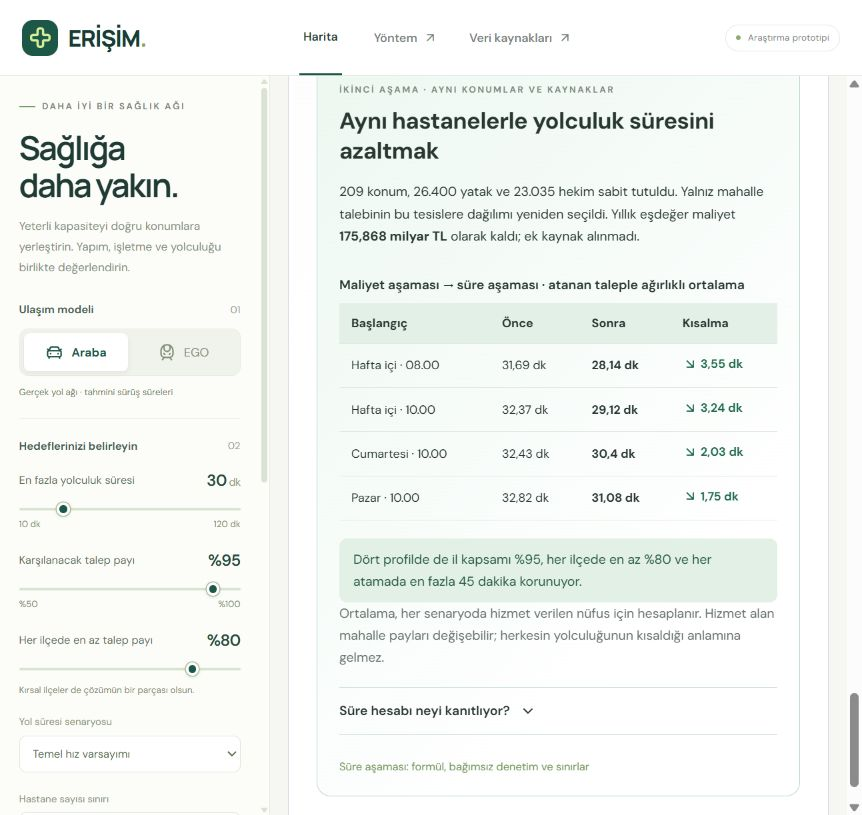
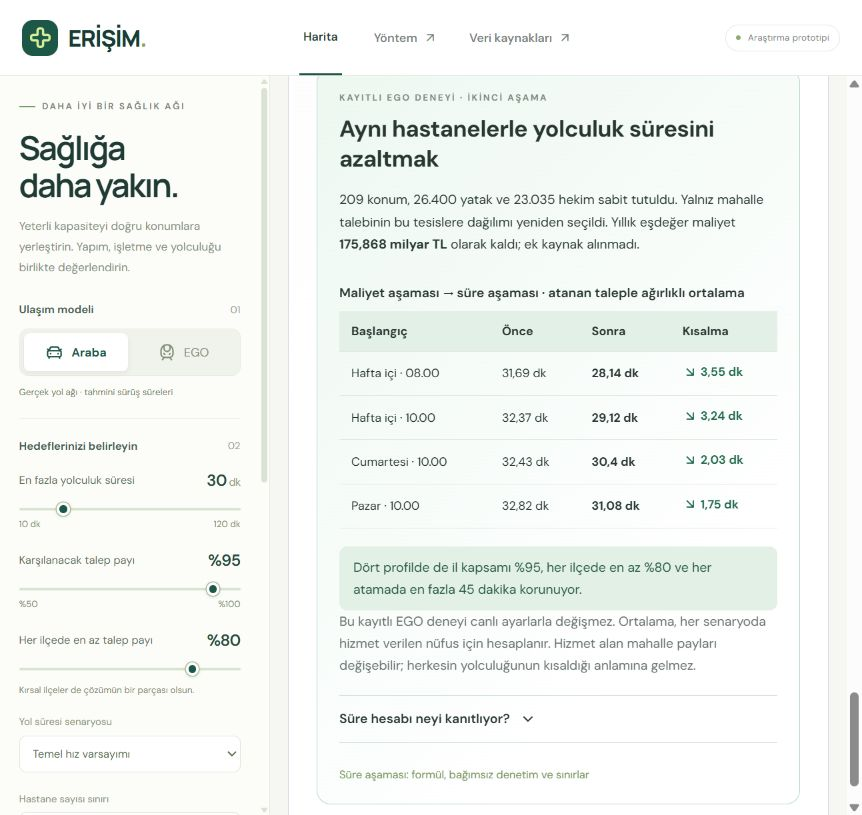
Label saved EGO experiments separately from live travel controls

diff --git a/src/JointTravel.tsx b/src/JointTravel.tsx
@@ -77,7 +77,7 @@ export function JointTravelContent({ report, source }: { report: JointTravelRepo
     : "Süre deneyinin doğrulaması tamamlanmamış. Yukarıdaki maliyet planı ayrı değerlendirilir."}</p></section>;
   const overlap = report.conditionalOverlap.province;
   return <section className="joint-travel" aria-labelledby="joint-travel-title">
-    <span className="eyebrow">İKİNCİ AŞAMA · AYNI KONUMLAR VE KAYNAKLAR</span>
+    <span className="eyebrow">KAYITLI EGO DENEYİ · İKİNCİ AŞAMA</span>
     <h4 id="joint-travel-title">Aynı hastanelerle yolculuk süresini azaltmak</h4>
     <p>{fmt(report.hospitalCount, 0)} konum, {fmt(report.beds, 0)} yatak ve {fmt(report.doctors, 0)} hekim sabit tutuldu.
       Yalnız mahalle talebinin bu tesislere dağılımı yeniden seçildi. Yıllık eşdeğer maliyet
@@ -91,7 +91,7 @@ export function JointTravelContent({ report, source }: { report: JointTravelRepo
           : <span>Başlangıç korundu</span>}</td></tr>)}</tbody>
     </table></div>
     <p className="joint-travel-targets">Dört profilde de il kapsamı %95, her ilçede en az %80 ve her atamada en fazla 45 dakika korunuyor.</p>
-    <p className="joint-note">Ortalama, her senaryoda hizmet verilen nüfus için hesaplanır. Hizmet alan mahalle payları değişebilir;
+    <p className="joint-note">Bu kayıtlı EGO deneyi canlı ayarlarla değişmez. Ortalama, her senaryoda hizmet verilen nüfus için hesaplanır. Hizmet alan mahalle payları değişebilir;
       herkesin yolculuğunun kısaldığı anlamına gelmez.</p>
     {!report.allProfilesAccepted && <p className="joint-note">{report.acceptedProfileCount}/4 profil için süre iyileştirmesi doğrulandı.
       Diğer profillerin eski atamaları korundu; iyileştirme bulunmaması olanaksızlık kanıtı değildir.</p>}

diff --git a/src/JointPlan.tsx b/src/JointPlan.tsx
@@ -91,7 +91,7 @@ export function JointPlanContent({ report, packageId, planningVersion, map, curr
   report.selected.forEach(site => sizes.set(site.beds, (sizes.get(site.beds) || 0) + 1));
   const mostCommon = [...sizes.entries()].sort((a, b) => b[1] - a[1] || a[0] - b[0])[0];
   return <section className="joint-plan" aria-labelledby="joint-title">
-    <div className="joint-heading"><div><span className="eyebrow">DÖRT BAŞLANGIÇ SAATİ · AYNI KAYNAKLAR</span>
+    <div className="joint-heading"><div><span className="eyebrow">KAYITLI EGO DENEYİ · DÖRT BAŞLANGIÇ SAATİ</span>
       <h3 id="joint-title">Konumlar da birlikte seçilirse?</h3>
       <p>Her saat için ayrı hastaneler kurmak yerine, konumlar, yataklar ve hekimler ortak seçildi.
         Her profil kendi ulaşım bağlantılarıyla talep atıyor.</p></div><span className="joint-tag">Doğrulanmış model örneği</span></div>
